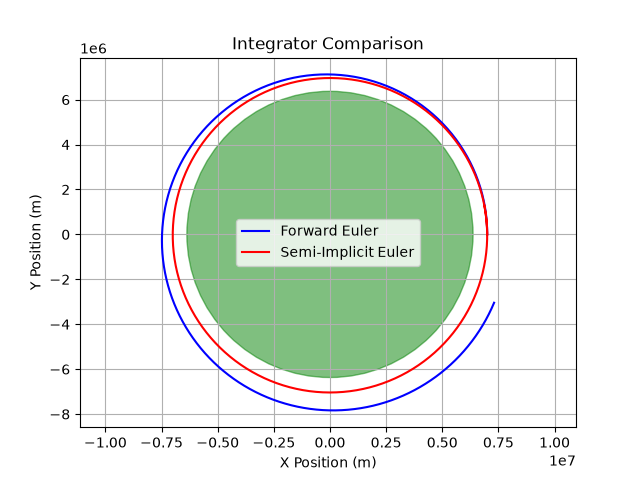
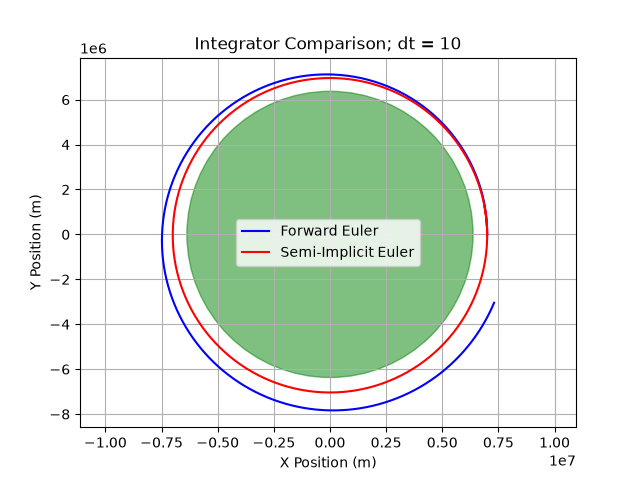
Add specific orbital energy diagnostic

Changed region(s): [[0.3125, 0.0625, 0.7188, 0.125]]

diff --git a/plotter.py b/plotter.py
@@ -1,7 +1,7 @@
 import matplotlib.pyplot as plt
 from constants import EARTH_RADIUS
 
-def plot_trajectory(positions):
+def plot_trajectory(dt, positions):
     """Plots the trajectory of a satellite based on its positions."""
     
     x_list, y_list = zip(*positions)
@@ -9,14 +9,14 @@ def plot_trajectory(positions):
     ax.plot(x_list, y_list, linestyle='-', color='b')
     earth_circle = plt.Circle((0, 0), EARTH_RADIUS, color='g', alpha=0.5)
     ax.add_artist(earth_circle)
-    plt.title('Trajectory Plot')
+    plt.title(f'Trajectory Plot; dt = {dt}')
     plt.xlabel('X Position (m)')
     plt.ylabel('Y Position (m)')
     plt.axis('equal')
     plt.grid()
     plt.show()
     
-def plot_integrator_comparison(positions1, positions2, label1, label2):
+def plot_integrator_comparison(dt, positions1, positions2, label1, label2):
     """Plots the trajectories of two satellites for integrator comparison."""
     
     x_list1, y_list1 = zip(*positions1)
@@ -27,7 +27,7 @@ def plot_integrator_comparison(positions1, positions2, label1, label2):
     ax.plot(x_list2, y_list2, linestyle='-', color='r', label=label2)
     earth_circle = plt.Circle((0, 0), EARTH_RADIUS, color='g', alpha=0.5)
     ax.add_artist(earth_circle)
-    plt.title('Integrator Comparison')
+    plt.title(f'Integrator Comparison; dt = {dt}')
     plt.xlabel('X Position (m)')
     plt.ylabel('Y Position (m)')
     plt.axis('equal')

diff --git a/main.py b/main.py
@@ -6,14 +6,15 @@ from math import sqrt
 
 if __name__ == "__main__":
     # Figure 1: Simulate and plot the trajectory of a satellite in a circular orbit around Earth using forward Euler integration.
+    dt = 10
     r = 7000000
     vc = sqrt(EARTH_MU / r)  # m/s
-    positions_forward = simulate(r, 0, 0, vc, 10, 600, forward_euler_step)
-    plot_trajectory(positions_forward)
+    positions_forward = simulate(r, 0, 0, vc, dt, 600, forward_euler_step)
+    plot_trajectory(dt, positions_forward)
 
     # Figure 2: Simulate and plot the trajectory of a satellite in a circular orbit around Earth using semi-implicit Euler integration.
-    positions_semi_implicit = simulate(r, 0, 0, vc, 10, 600, semi_implicit_euler_step)
-    plot_trajectory(positions_semi_implicit)
+    positions_semi_implicit = simulate(r, 0, 0, vc, dt, 600, semi_implicit_euler_step)
+    plot_trajectory(dt, positions_semi_implicit)
 
     # Figure 3: Compare the trajectories of the two integrators.
-    plot_integrator_comparison(positions1=positions_forward, positions2=positions_semi_implicit, label1="Forward Euler", label2="Semi-Implicit Euler")
+    plot_integrator_comparison(dt, positions1=positions_forward, positions2=positions_semi_implicit, label1="Forward Euler", label2="Semi-Implicit Euler")

diff --git a/diagnostics.py b/diagnostics.py
@@ -1,0 +1,10 @@
+from constants import EARTH_MU
+from math import sqrt
+
+def specific_orbital_energy(x, y, vx, vy):
+    """Calculate the specific orbital energy of an object in orbit."""
+    
+    r = sqrt((x ** 2) + (y ** 2))
+    v2 = (vx ** 2) + (vy ** 2)
+    energy = (v2 / 2) - (EARTH_MU / r)
+    return energy
